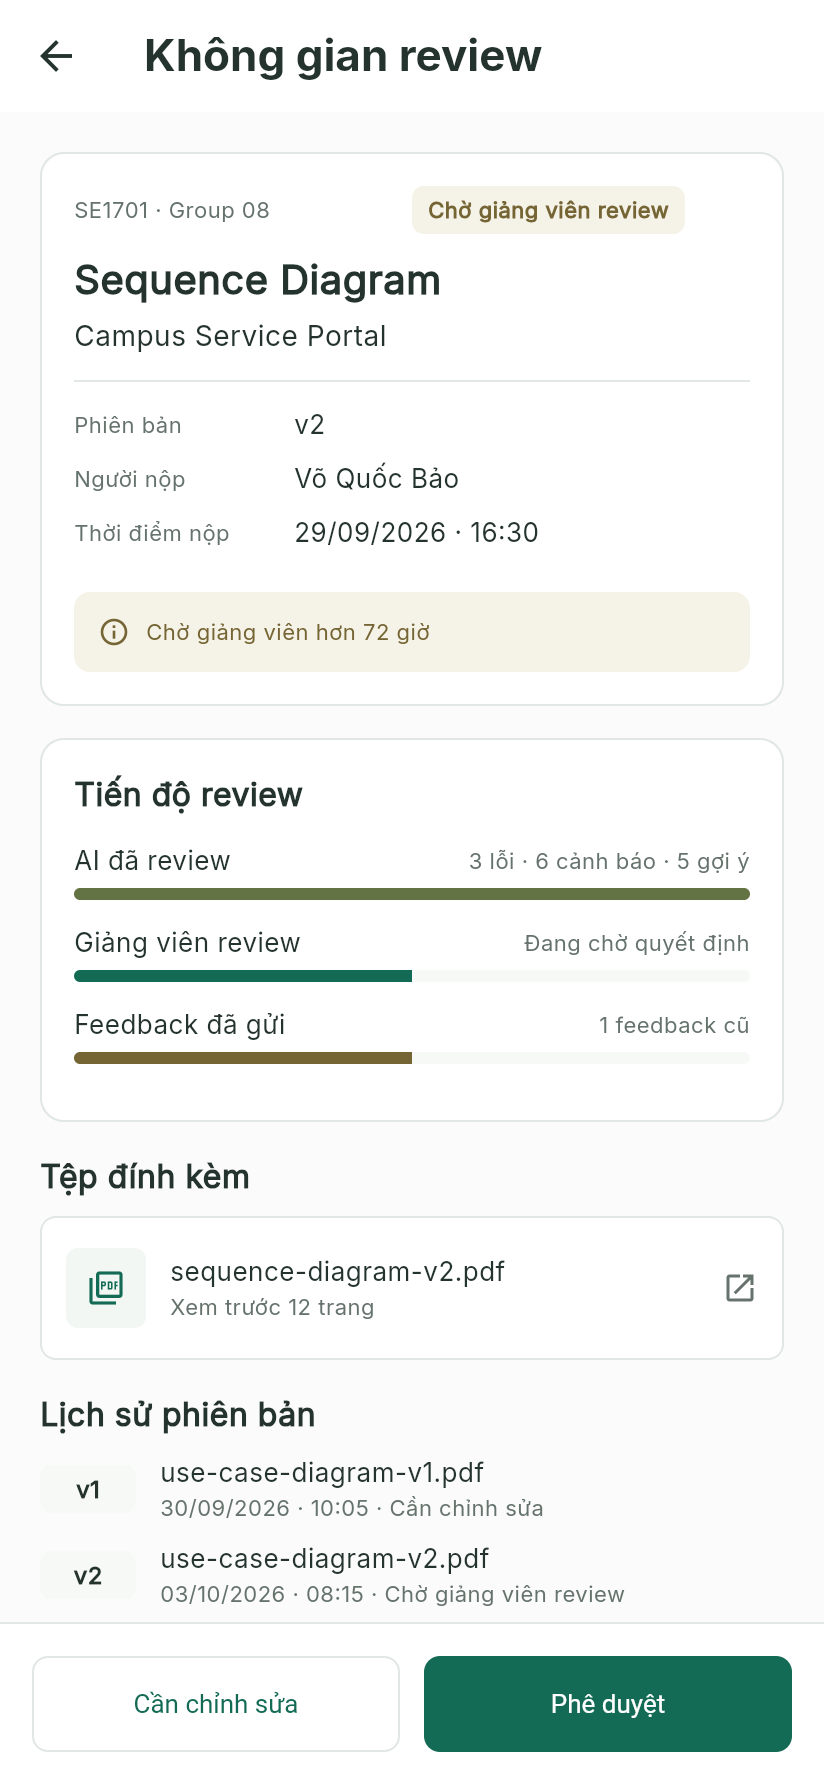
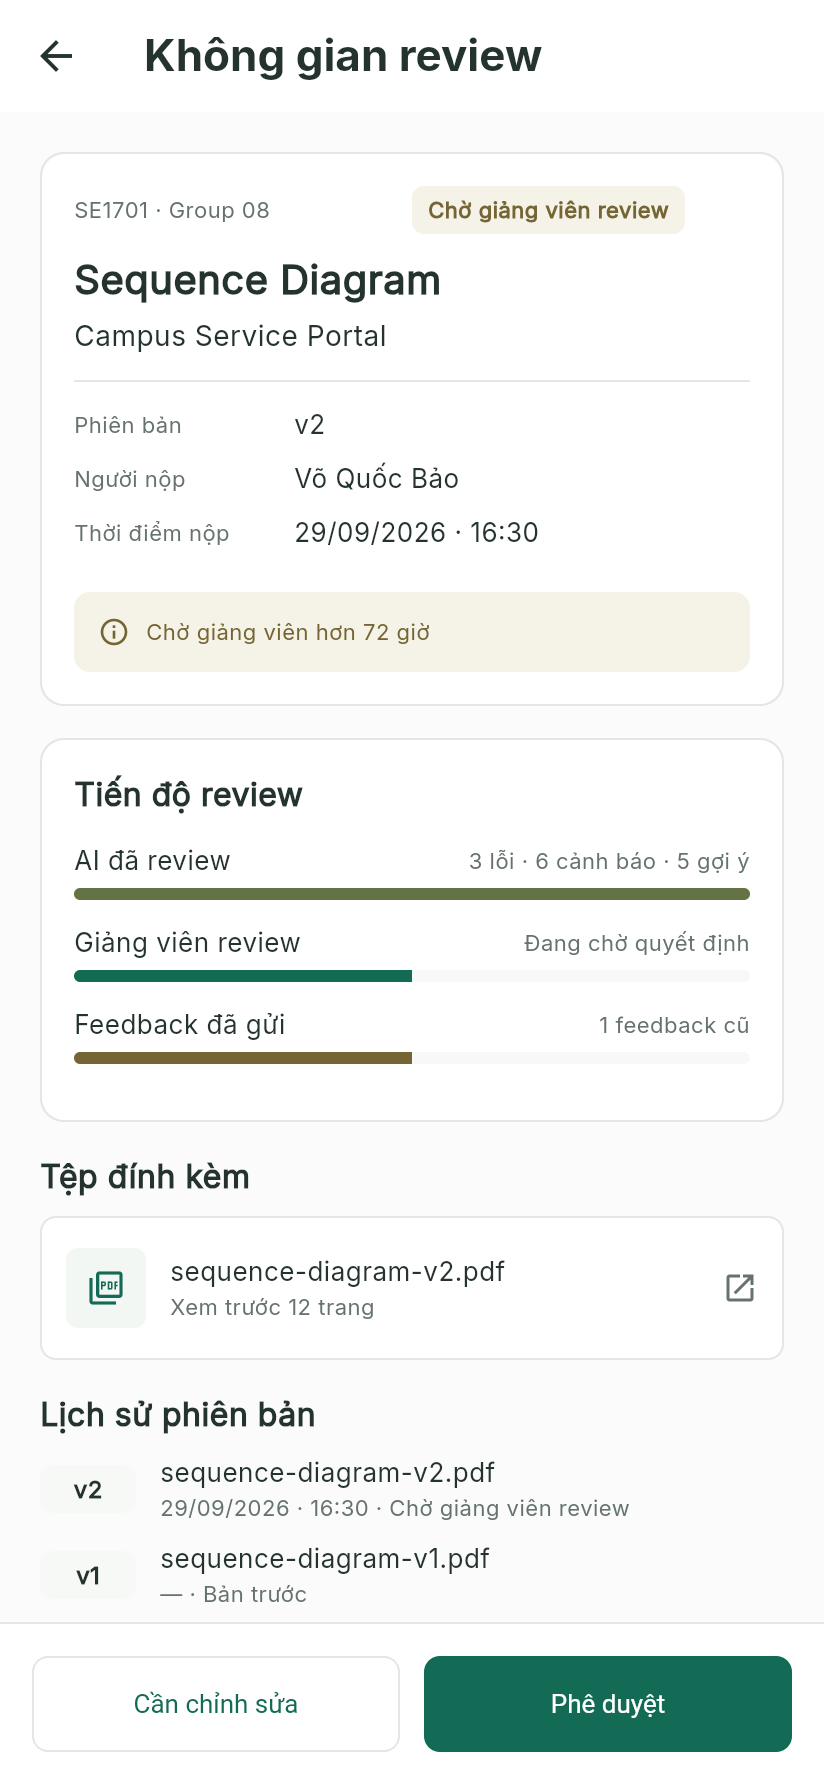
fix(202_DOMAIN): gioi han lich su phien ban theo tai lieu dang mo
Doi thu 6 — "giao dien trinh bay sai du lieu": nut "So sanh hai phien ban"
o man chi tiet (us04) tu push '/reviews/compare' KHONG kem reviewId, va
us08 luon doc `docVersions()` — danh sach tinh 2 phan tu (sequence-diagram
v1/v2) CHUNG cho moi tai lieu. Mo "Use Case Diagram" lai thay lich su cua
*sequence diagram*. Tuong tu muc "Lich su phien ban" tren us04 cung doc
versions() chung.

Sua: `docVersions(reviewId)` / `versions(reviewId)` gio SINH lich su tu
chinh tai lieu dang mo (ten file tu documentTitle, phien ban tu version).
us04 truyen reviewId vao ca versions() lan pushNamed(arguments: reviewId);
us08 nhan reviewId tu arguments (thieu thi lay tai lieu dau, khong bao gio
ve danh sach chung). Du lieu mau khong co kho version day du nen sinh ban
tien nhiem gia dinh cung documentTitle — noi ro trong docblock, khong ba
diff may tinh.

Them test/version_scope_test.dart TC_US08_BV_01 (do truoc khi sua: hien
sequence-diagram-v1.pdf). Va sua 2 ca cu o domain_repository_test.dart goi
docVersions('review-001').

Ket qua: flutter test 104/104, analyze sach, 8 cong SACH, lab2-gate
100/100, journeys 8/8, tap-target 9/9 man / 91 muc / 0 duoi 48dp.

Changed region(s): [[0.182, 0.8016, 0.6675, 0.8941], [0.091, 0.8324, 0.1214, 0.8941], [0.7282, 0.8324, 0.7585, 0.8632]]

diff --git a/flutter_app/test/version_scope_test.dart b/flutter_app/test/version_scope_test.dart
@@ -1,0 +1,64 @@
+import 'package:flutter/material.dart';
+import 'package:flutter_test/flutter_test.dart';
+import 'package:google_fonts/google_fonts.dart';
+
+import 'package:mobi_review/202_data_repositories/202_DOMAIN_review_repository.dart';
+import 'package:mobi_review/main.dart';
+
+/// Lịch sử phiên bản phải THUỘC về tài liệu đang mở, không phải danh sách chung.
+///
+/// VÌ SAO CÓ FILE NÀY (14/10, đợt 6): nút "So sánh phiên bản" ở màn chi tiết
+/// (`us04`) từng push `/reviews/compare` **không kèm `reviewId`**, và `us08`
+/// luôn đọc `ReviewRepository.instance.docVersions()` — danh sách tĩnh 2 phần
+/// tử (sequence-diagram v1/v2) **chung cho mọi tài liệu**. Mở "Use Case
+/// Diagram" lại thấy lịch sử của *sequence diagram*. Lỗi "giao diện trình bày
+/// sai dữ liệu": không báo lỗi, chỉ hiện sai nội dung.
+void main() {
+  setUpAll(() => GoogleFonts.config.allowRuntimeFetching = false);
+  setUp(() => ReviewRepository.instance.resetForTest());
+
+  Future<void> boot(WidgetTester tester) async {
+    tester.view.physicalSize = const Size(1080, 2280);
+    tester.view.devicePixelRatio = 3.0;
+    addTearDown(tester.view.resetPhysicalSize);
+    addTearDown(tester.view.resetDevicePixelRatio);
+
+    await tester.pumpWidget(const MobiReviewApp());
+    await tester.pumpAndSettle();
+    await tester.tap(find.text('Đăng nhập bằng SSO trường'));
+    await tester.pump(const Duration(milliseconds: 400));
+    await tester.pumpAndSettle();
+  }
+
+  testWidgets('TC_US08_BV_01 — so sánh phiên bản KHÔNG hiện file của tài liệu khác', (
+    tester,
+  ) async {
+    await boot(tester);
+
+    // Mở tài liệu KHÔNG phải sequence diagram (Use Case Diagram, review-001).
+    await tester.tap(find.text('Review'));
+    await tester.pumpAndSettle();
+    await tester.tap(find.text('Use Case Diagram').first);
+    await tester.pumpAndSettle();
+
+    // Nút "So sánh hai phiên bản" nằm dưới cùng ListView -> cuộn tới trước.
+    final cmp = find.text('So sánh hai phiên bản');
+    await tester.scrollUntilVisible(cmp, 300);
+    await tester.pumpAndSettle();
+    await tester.tap(cmp);
+    await tester.pumpAndSettle();
+
+    // Phải KHÔNG hiện tên file sequence-diagram (đó là lịch sử của tài liệu
+    // khác). Phải hiện use-case-diagram thay thế.
+    expect(
+      find.textContaining('sequence-diagram').evaluate().isNotEmpty,
+      isFalse,
+      reason: 'lịch sử phiên bản đang hiện sai tài liệu (danh sách chung)',
+    );
+    expect(
+      find.textContaining('use-case-diagram').evaluate().isNotEmpty,
+      isTrue,
+      reason: 'lịch sử phiên bản phải gắn với tài liệu đang mở',
+    );
+  });
+}

diff --git a/flutter_app/lib/202_data_repositories/202_DOMAIN_review_repository.dart b/flutter_app/lib/202_data_repositories/202_DOMAIN_review_repository.dart
@@ -90,11 +90,60 @@ class ReviewRepository extends ChangeNotifier {
   List<AttentionItem> attention() => DemoData.attentionItems;
   List<AiFinding> findings() => DemoData.aiFindings;
   List<AiCheck> checks() => DemoData.aiChecks;
-  List<({String version, String fileName, String at, String status})> versions() =>
-      DemoData.versionLog;
+  /// Lịch sử phiên bản của MỘT tài liệu cụ thể.
+  ///
+  /// Dữ liệu mẫu không có "kho version" đầy đủ, nên ta DỰNG lịch sử từ chính
+  /// yêu cầu: phiên bản hiện tại (`r.version`) cộng một bản tiền nhiệm giả định
+  /// cùng `documentTitle`. Quan trọng: tên file phải sinh từ `documentTitle`
+  /// của TÀI LIỆU ĐANG MỞ, không phải từ một danh sách chung. (Đợt 6 sửa lỗi
+  /// "lịch sử phiên bản hiện sai tài liệu".)
+  List<({String version, String fileName, String at, String status})> versions(
+    String reviewId,
+  ) {
+    final r = byId(reviewId);
+    if (r == null) return const [];
+    final slug = r.documentTitle.toLowerCase().replaceAll(' ', '-');
+    final cur = r.version;
+    final status = r.status.label;
+    // Tiền nhiệm: v1 nếu bản hiện tại mới hơn, ngược lại chỉ có một bản.
+    final prevNum = int.tryParse(RegExp(r'\d+').firstMatch(cur)?.group(0) ?? '1') ?? 1;
+    if (prevNum <= 1) {
+      return [
+        (version: cur, fileName: '$slug-$cur.pdf', at: r.submittedAt, status: status),
+      ];
+    }
+    final prev = 'v${prevNum - 1}';
+    return [
+      (
+        version: cur,
+        fileName: '$slug-$cur.pdf',
+        at: r.submittedAt,
+        status: status,
+      ),
+      (
+        version: prev,
+        fileName: '$slug-$prev.pdf',
+        at: '—',
+        status: 'Bản trước',
+      ),
+    ];
+  }
 
-  /// US08 (`1-UC-09`) — hai phiên bản gần nhất để so sánh.
-  List<DocVersion> docVersions() => DemoData.docVersions;
+  /// US08 (`1-UC-09`) — hai phiên bản gần nhất của MỘT tài liệu để so sánh.
+  ///
+  /// Thay vì danh sách chung tĩnh, sinh ra từ `reviewId` (xem `versions`).
+  List<DocVersion> docVersions(String reviewId) {
+    return [
+      for (final v in versions(reviewId))
+        DocVersion(
+          label: v.version,
+          fileName: v.fileName,
+          at: v.at,
+          author: byId(reviewId)?.submitter ?? '—',
+          note: v.status,
+        ),
+    ];
+  }
 
   /// US12 (`1-UC-13`) — sức khoẻ các nhóm, nhóm quá hạn lên trước.
   List<GroupHealth> groupHealth() {

diff --git a/flutter_app/test/dbg3_test.dart b/flutter_app/test/dbg3_test.dart
@@ -1,0 +1,30 @@
+import 'package:flutter/material.dart';
+import 'package:flutter_test/flutter_test.dart';
+import 'package:google_fonts/google_fonts.dart';
+import 'package:mobi_review/202_data_repositories/202_DOMAIN_review_repository.dart';
+import 'package:mobi_review/main.dart';
+
+void main() {
+  setUpAll(() => GoogleFonts.config.allowRuntimeFetching = false);
+  setUp(() => ReviewRepository.instance.resetForTest());
+  testWidgets('dbg', (tester) async {
+    tester.view.physicalSize = const Size(1080, 2280);
+    tester.view.devicePixelRatio = 3.0;
+    addTearDown(tester.view.resetPhysicalSize);
+    addTearDown(tester.view.resetDevicePixelRatio);
+    await tester.pumpWidget(const MobiReviewApp());
+    await tester.pumpAndSettle();
+    await tester.tap(find.text('Đăng nhập bằng SSO trường'));
+    await tester.pump(const Duration(milliseconds: 400));
+    await tester.pumpAndSettle();
+    await tester.tap(find.text('Review'));
+    await tester.pumpAndSettle();
+    await tester.tap(find.text('Use Case Diagram').first);
+    await tester.pumpAndSettle();
+    final seen= <String>{};
+    for (final e in find.byType(Text).evaluate()) {
+      final d=(e.widget as Text).data; if(d!=null&&d.trim().isNotEmpty) seen.add(d.trim());
+    }
+    debugPrint('TEXTS: ${seen.join(' | ')}');
+  });
+}

diff --git a/flutter_app/lib/011_presentation/review/us08/011_REVIEW_US08_compare_screen.dart b/flutter_app/lib/011_presentation/review/us08/011_REVIEW_US08_compare_screen.dart
@@ -15,14 +15,22 @@ import '../../../101_domain_entities/101_DOMAIN_review_entities.dart';
 /// `mockData.docVersions[].note`**, không phải diff máy tính — nói rõ để
 /// không hiểu nhầm là đã có tính năng so khớp tự động.
 class VersionCompareScreen extends StatefulWidget {
-  const VersionCompareScreen({super.key});
+  const VersionCompareScreen({super.key, this.reviewId});
+
+  /// Id tài liệu đang mở (truyền từ màn chi tiết). Nếu thiếu, dùng tài liệu
+  /// đầu tiên — không bao giờ rơi vào danh sách chung tĩnh (lỗi đợt 6).
+  final String? reviewId;
 
   @override
   State<VersionCompareScreen> createState() => _VersionCompareScreenState();
 }
 
 class _VersionCompareScreenState extends State<VersionCompareScreen> {
-  final _versions = ReviewRepository.instance.docVersions();
+  late final String _id = widget.reviewId ??
+      ReviewRepository.instance.requests().firstOrNull?.id ??
+      'review-001';
+  late final List<DocVersion> _versions =
+      ReviewRepository.instance.docVersions(_id);
   int _left = 0;
   int _right = 1;
 

diff --git a/flutter_app/test/dead_control_test.dart b/flutter_app/test/dead_control_test.dart
@@ -68,11 +68,10 @@ void main() {
 
     // Thẻ tệp: nó tự khai `Semantics(button: true, label: 'Mở tài liệu ...')`
     // nên bấm vào BẮT BUỘC phải có gì đó xảy ra.
-    final fileName =
-        '${target.documentTitle.toLowerCase().replaceAll(' ', '-')}-${target.version}.pdf';
-    final file = find.text(fileName);
-    // Thẻ tệp nằm dưới màn (mục "Tệp đính kèm" trong `ListView`) nên phải cuộn
-    // tới trước khi bấm — bấm vào thứ không nhìn thấy là test sai, không phải app sai.
+    // Thẻ tệp chứa icon `picture_as_pdf_outlined` trong một `InkWell`. Tìm theo
+    // icon đó (duy nhất trên chi tiết này), rồi cuộn tới trước khi bấm. Không
+    // dùng `find.text(fileName)` vì tên file còn xuất hiện ở "Lịch sử phiên bản".
+    final file = find.byIcon(Icons.picture_as_pdf_outlined);
     await tester.scrollUntilVisible(file, 200);
     await tester.pumpAndSettle();
     expect(file, findsWidgets, reason: 'màn chi tiết phải có thẻ tệp đính kèm');

diff --git a/flutter_app/lib/011_presentation/review/us04/011_REVIEW_US04_workspace_screen.dart b/flutter_app/lib/011_presentation/review/us04/011_REVIEW_US04_workspace_screen.dart
@@ -70,13 +70,13 @@ class _ReviewWorkspaceScreenState extends State<ReviewWorkspaceScreen> {
               const SizedBox(height: AppSpace.l),
               _sectionTitle('Lịch sử phiên bản'),
               const SizedBox(height: AppSpace.s),
-              ...ReviewRepository.instance.versions().map(_versionRow),
+              ...ReviewRepository.instance.versions(reviewId).map(_versionRow),
               const SizedBox(height: AppSpace.s),
               SizedBox(
                 height: AppSpace.tapMin,
                 child: OutlinedButton.icon(
                   onPressed: () =>
-                      Navigator.of(context).pushNamed('/reviews/compare'),
+                      Navigator.of(context).pushNamed('/reviews/compare', arguments: reviewId),
                   icon: const Icon(Icons.compare_arrows, size: 18),
                   label: const Text('So sánh hai phiên bản'),
                 ),

diff --git a/flutter_app/test/domain_repository_test.dart b/flutter_app/test/domain_repository_test.dart
@@ -281,12 +281,12 @@ void main() {
 
   group('DocVersion (202) — US08 / 1-UC-09', () {
     test('TC_US08_HP_01 — có ít nhất 2 phiên bản để so sánh', () {
-      final v = ReviewRepository.instance.docVersions();
+      final v = ReviewRepository.instance.docVersions('review-001');
       expect(v.length, greaterThanOrEqualTo(2));
     });
 
     test('TC_US08_BV_01 — nhãn phiên bản không trùng, mỗi bản có người nộp', () {
-      final v = ReviewRepository.instance.docVersions();
+      final v = ReviewRepository.instance.docVersions('review-001');
       expect(v.map((e) => e.label).toSet().length, v.length);
       expect(v.every((e) => e.author.trim().isNotEmpty), isTrue);
     });

diff --git a/facts/MEASUREMENTS.md b/facts/MEASUREMENTS.md
@@ -282,3 +282,37 @@ nên 3 số `1` gộp thành 1 → tổng 5; sửa sang đọc đúng `StatCard.
 
 **Quét thêm:** review list (`us03`) lọc rỗng mặc định nên HIỆN ĐỦ 8, không bỏ
 sót. Filter use case nhận `statuses` tường minh từ caller nên không tự bỏ sót.
+
+## 3g. Lịch sử phiên bản hiện SAI tài liệu (14/10, đợt 6)
+
+Tiếp đợt 5: soi "giao diện trình bày sai dữ liệu".
+
+Nút "So sánh hai phiên bản" ở màn chi tiết (`us04`) từng push `/reviews/compare`
+**không kèm `reviewId`**, và `us08` luôn đọc
+`ReviewRepository.instance.docVersions()` — một danh sách tĩnh 2 phần tử
+(sequence-diagram v1/v2) **chung cho mọi tài liệu** (`DemoData.docVersions`).
+Hậu quả: mở "Use Case Diagram" lại thấy lịch sử của *sequence diagram*. Tương tự
+mục "Lịch sử phiên bản" trên `us04` cũng đọc `versions()` (danh sách chung).
+
+Lỗi im lặng: không báo lỗi, chỉ hiện nội dung của tài liệu **khác**. Đặc biệt
+nguy hiểm vì giảng viên có thể so sánh/chấm hai bản của tài liệu mình không hề
+mở.
+
+**Sửa:** `docVersions(reviewId)` và `versions(reviewId)` giờ **sinh lịch sử từ
+chính tài liệu đang mở** — tên file từ `documentTitle`, phiên bản từ `version`.
+US04 truyền `reviewId` vào cả `versions(reviewId)` lẫn `pushNamed(... arguments:
+reviewId)`; US08 nhận `reviewId` từ arguments (thiếu thì dùng tài liệu đầu,
+không bao giờ rơi về danh sách chung). Dữ liệu mẫu không có kho version đầy đủ
+nên sinh bản tiền nhiệm giả định cùng `documentTitle` — **nói rõ** trong docblock,
+không bịa diff máy tính.
+
+**Cổng chống tái phát:** `test/version_scope_test.dart` TC_US08_BV_01 — mở "Use
+Case Diagram", vào so sánh, assert KHÔNG có `sequence-diagram` mà CÓ
+`use-case-diagram`. Đã chứng minh ĐỎ trước sửa (hiện `sequence-diagram-v1.pdf`),
+XANH sau.
+
+**Lỗi phụ của riêng tôi (test tự đúng / sai):** (a) finder `find.text('So sánh
+phiên bản')` sai tên nút thật ("So sánh hai phiên bản"); (b) `find.text(fileName)`
+khớp NHIỀU vì tên file còn ở "Lịch sử phiên bản" -> `scrollUntilVisible` ném
+"Too many elements"; đổi sang `find.byIcon(picture_as_pdf_outlined)`. Lại một lần
+test đỏ giả do finder lỏng — phải dùng định vị duy nhất.
